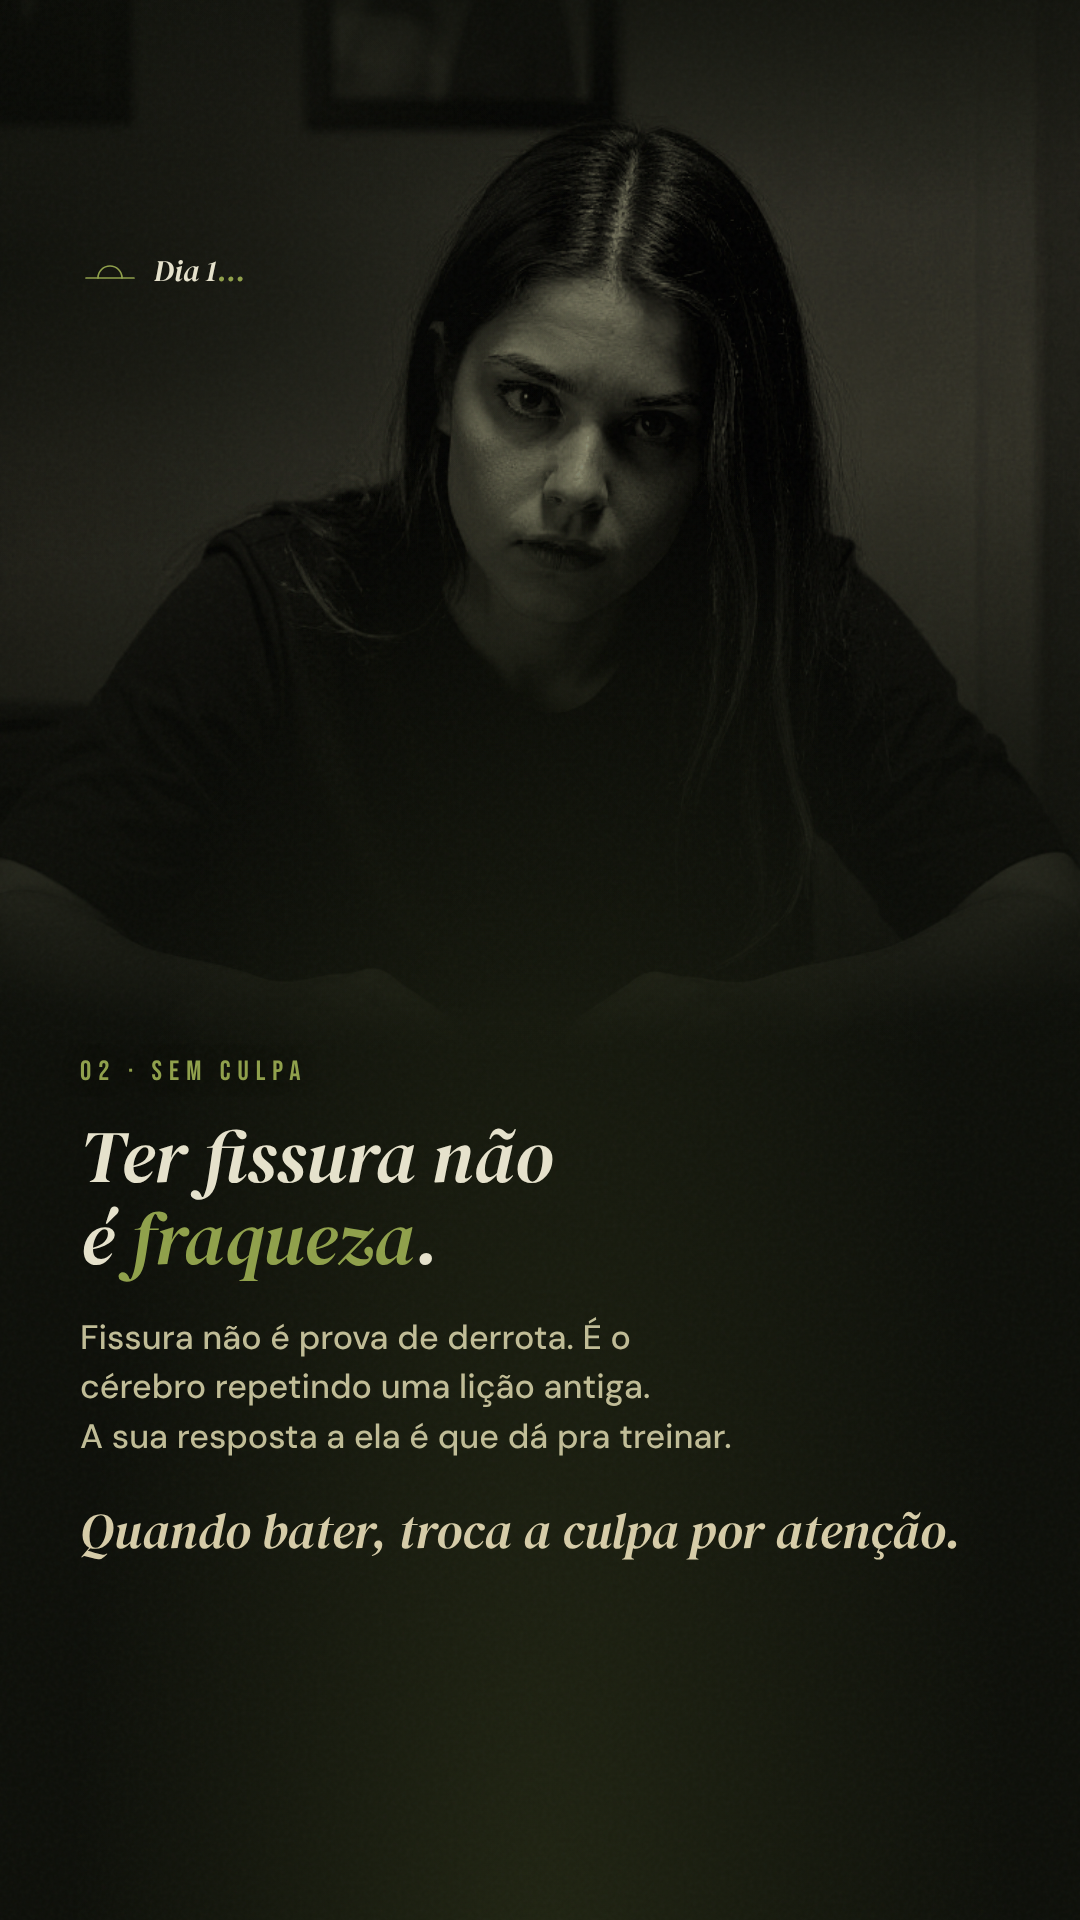
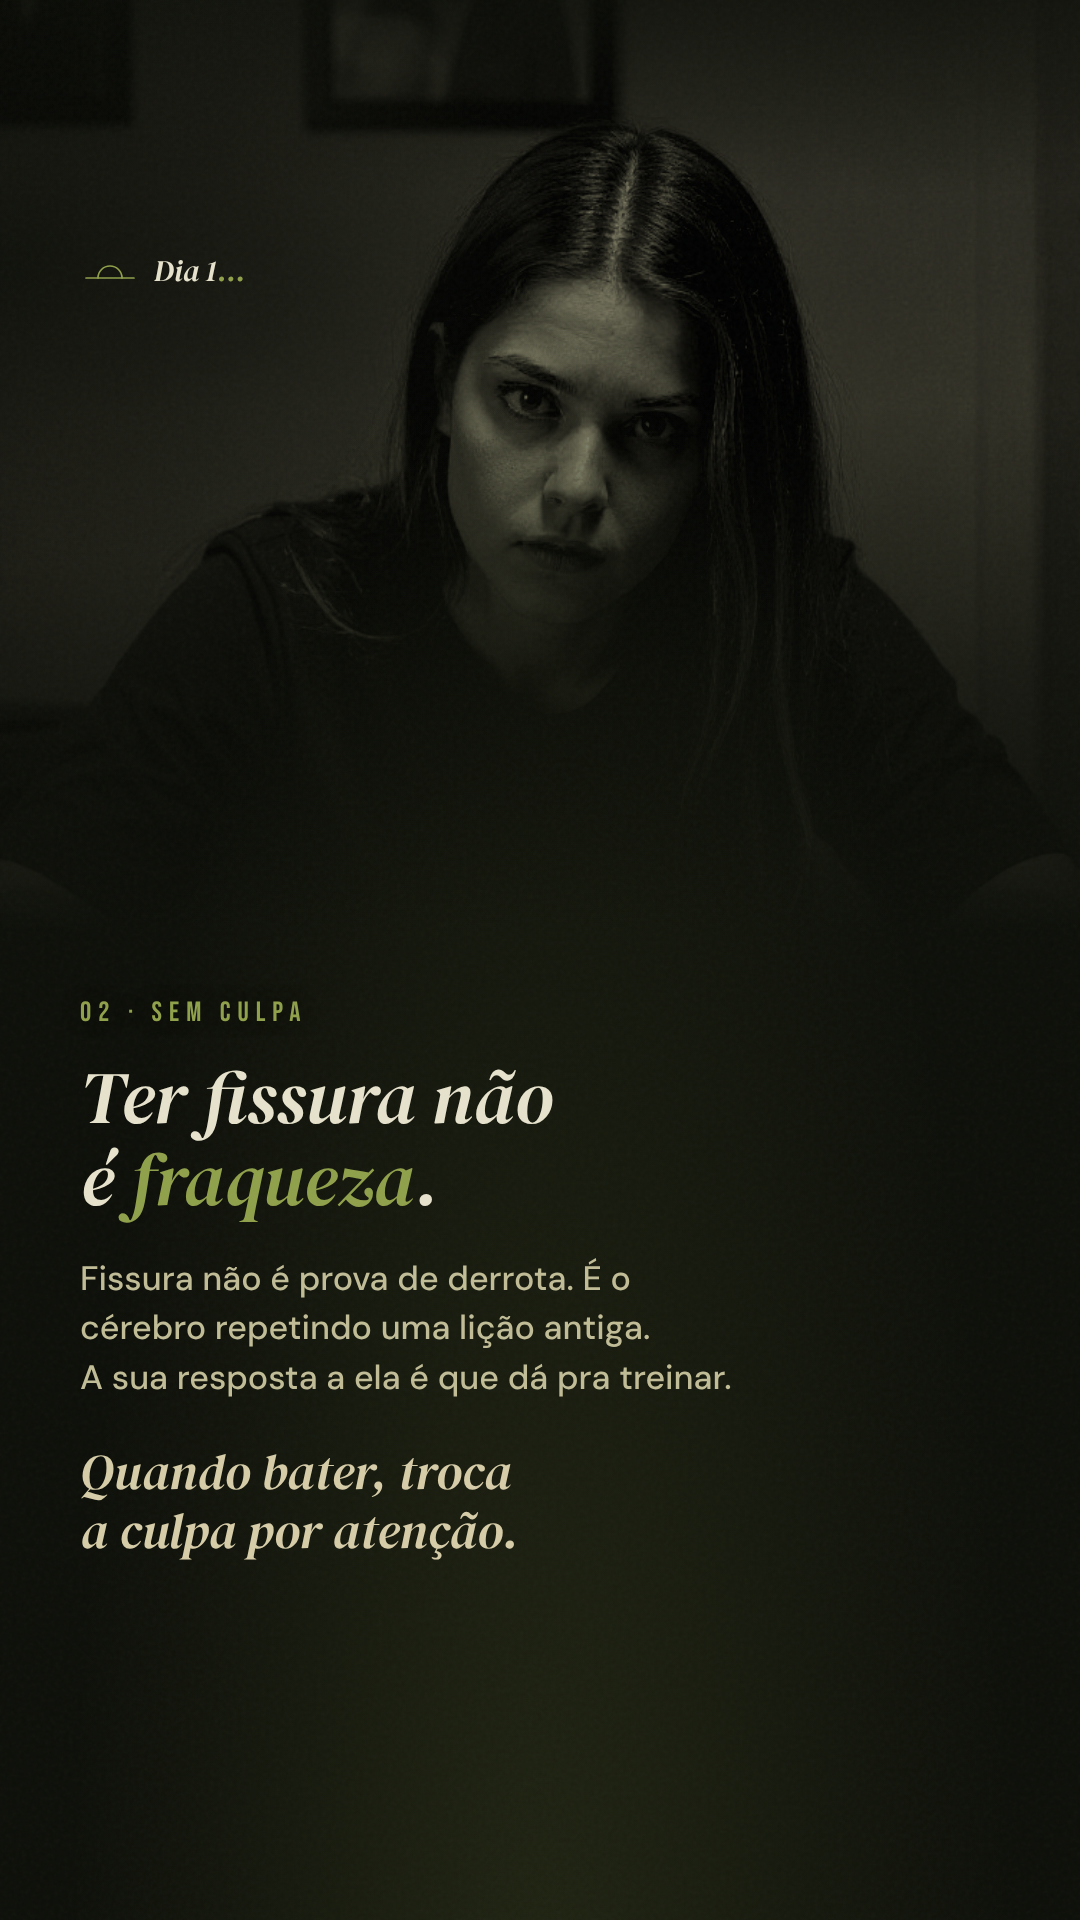
Carrossel 6 9:16: apply QA fixes
Wordmark off the faces on slide 4, cover wordmark top-left per the
story rule, text and cues kept left of the TikTok action column,
handless arms faded out on slide 3, giant 1 placed as in 4:5, and
clearer save and CTA lines in slides-9x16.js.

Claude-Session: https://claude.ai/code/session_01MtrnZtMMhZHKAaUpjjmgJu

Changed region(s): [[0.0611, 0.5, 0.8861, 0.8125]]

diff --git a/carrossel/carrossel 6 gatilho dia1/fonte/carousel-9x16.css b/carrossel/carrossel 6 gatilho dia1/fonte/carousel-9x16.css
@@ -10,12 +10,16 @@
 
 /* wordmark: top-left, under the Stories header */
 .marca.tr, .marca.tl { top: var(--safe-top); left: var(--m); right: auto; }
-.marca.bl { bottom: var(--safe-bottom); left: var(--m); }
-.cover .swipe, .turn .swipe { bottom: var(--safe-bottom); right: var(--m); }
+/* cover too: story rule puts the wordmark top-left, and bottom-left is under the TikTok caption */
+.marca.bl { top: var(--safe-top); bottom: auto; left: var(--m); }
+/* cues and signature stay left of the TikTok action column (x > ~930) */
+.cover .swipe, .turn .swipe { bottom: var(--safe-bottom); right: 160px; }
 
 /* cover: big photo on top, text in the lower third */
 .cover .camada { justify-content: flex-end; padding-bottom: calc(var(--safe-bottom) + 150px); }
-.cover h1.serif { font-size: 94px; }
+.cover h1.serif { font-size: 88px; }
+/* giant 1 follows the text down, as in 4:5 (stem behind "porta.") */
+.cover .um { top: 375px !important; }
 
 /* Léo: the photo is 9:16 already, shown whole and lifted so the face sits above the text */
 .leo .foto { top: -350px; height: 1920px; }
@@ -23,16 +27,25 @@
 .leo .scrim-top { height: 380px; background: linear-gradient(to bottom, rgba(12,14,8,.9) 0%, rgba(12,14,8,.6) 45%, transparent 100%); }
 .leo .marca.tl { left: auto; right: var(--m); }
 .leo .camada { padding-bottom: calc(var(--safe-bottom) + 60px); }
-.leo .sig { bottom: calc(var(--safe-bottom) + 50px); }
+.leo .sig { bottom: calc(var(--safe-bottom) + 50px); right: 170px; }
+.leo .crisis { margin-top: 30px; }
 .leo h2.serif { font-size: 62px; }
 
 /* myth and turn have the whole height to themselves: larger type */
 .myth .mito { font-size: 78px; } .myth .truth { font-size: 32px; }
-.myth .body p { font-size: 37px; } .myth .note { font-size: 56px; }
+.myth .body p { font-size: 37px; } .myth .note { font-size: 52px; }
 .turn .line { font-size: 70px; } .turn .line + .line { margin-top: 36px; }
+.turn .stack { max-width: 800px; }
+.item .note { max-width: 850px; }
+/* faint giant 1 sat in the bottom 300px: bring it up under the text */
+.myth .um, .turn .um { bottom: -80px !important; }
 
 /* per-photo frames: the taller crop would show the second panel of the diptych (a party with shots)
    and the beer bottle in his hand, both hidden in 4:5 */
 .bg:has(img[src$="mulher_tequila.jpg"]) { height: 930px; }
 .bg:has(img[src$="homem_na_sarjeta.jpg"]) { height: 900px; }
 .bg img[src$="homem_na_sarjeta.jpg"] { object-position: 50% 5% !important; }
+/* 9:16 shows more of these photos: her arms without hands (slide 3), and the wordmark on faces (slide 4) */
+.bg:has(img[src$="adolecente_asking_for_help.jpg"]) { height: 960px; }
+.bg img[src$="adolecente_asking_for_help.jpg"] { object-position: 50% 26.5% !important; }
+.bg img[src$="familia_da_adicta.jpg"] { object-position: 50% 18% !important; }

diff --git a/carrossel/carrossel 6 gatilho dia1/fonte/slides-9x16.js b/carrossel/carrossel 6 gatilho dia1/fonte/slides-9x16.js
@@ -3,10 +3,11 @@
 (() => {
   const slide = name => SLIDES.find(s => s.name === name);
   slide('capa').swipe = 'continua →';
-  slide('salva-e-comenta').lines[1].text = 'Tira print pra um dia ruim.';
+  slide('salva-e-comenta').lines[1].text = 'Volta no 05 e tira print pra um dia ruim.';
+  slide('salva-e-comenta').lines[3].text = 'Responde numa palavra.<br>Eu leio.';
   Object.assign(slide('leo'), {
     ctaVerb: 'Manda',
-    hint: 'no direct que eu<br>te mando o link',
+    hint: 'no direct<br>que eu te mando o link',
     private: '',
   });
 })();

diff --git a/carrossel/carrossel 6 gatilho dia1/README.md b/carrossel/carrossel 6 gatilho dia1/README.md
@@ -26,7 +26,7 @@ O resto segue o sistema: paleta oliva sem âmbar, DM Serif itálico com um acent
 
 ## Versão 9:16 (Stories e TikTok)
 
-- Nos Stories não tem comentário, botão de salvar nem arrastar. Por isso a 9:16 troca três frases: "arrasta →" vira "continua →", "Deixa salvo pra um dia ruim." vira "Tira print pra um dia ruim." e o botão vira "Manda CONSULTA no direct". As trocas ficam em `fonte/slides-9x16.js`.
+- Nos Stories não tem comentário, botão de salvar nem arrastar. Por isso a 9:16 troca três frases: "arrasta →" vira "continua →", "Deixa salvo pra um dia ruim." vira "Volta no 05 e tira print pra um dia ruim." e o botão vira "Manda CONSULTA no direct". As trocas ficam em `fonte/slides-9x16.js`.
 - Nos Stories, dá pra pôr o sticker de link da consulta no slide 10, na área escura à direita do rosto. O link leva direto pro pagamento.
 - O texto fica fora dos 250px de cima e dos 300px de baixo, onde o Instagram mostra o nome do perfil e a caixa de resposta.
 
